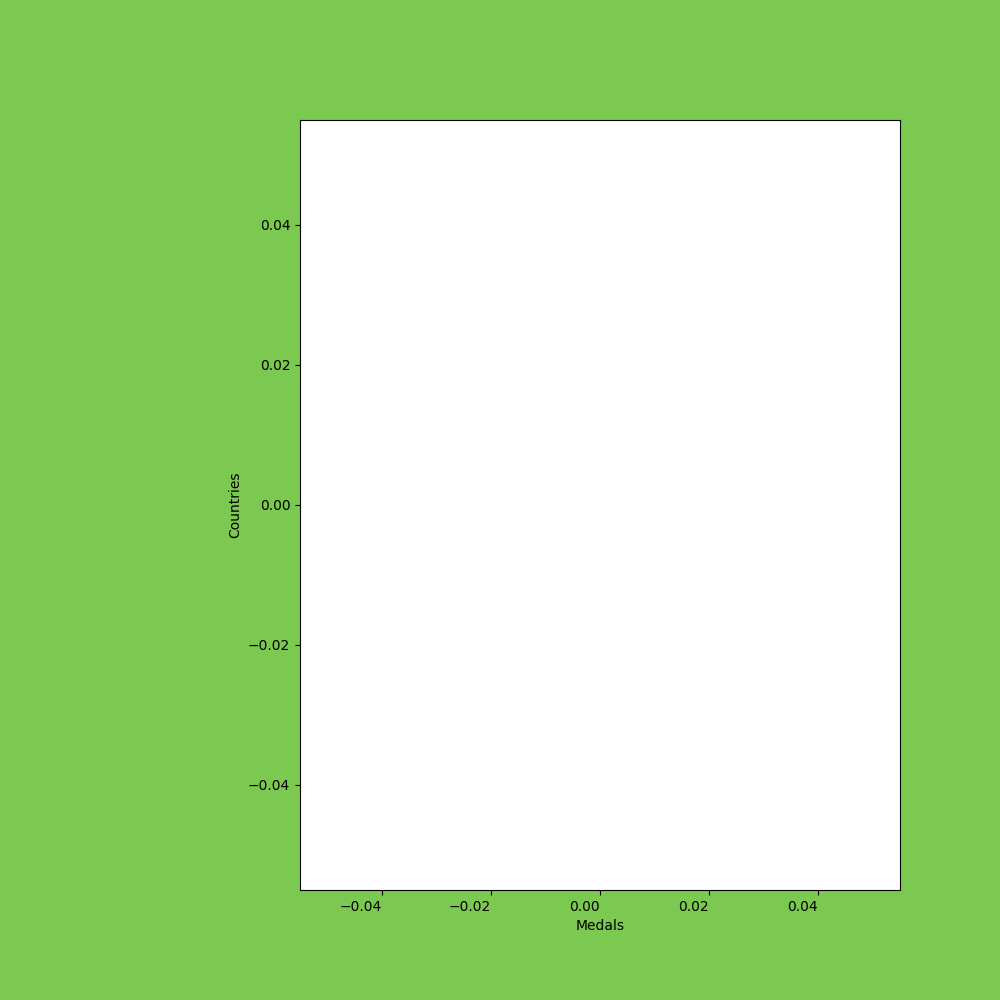
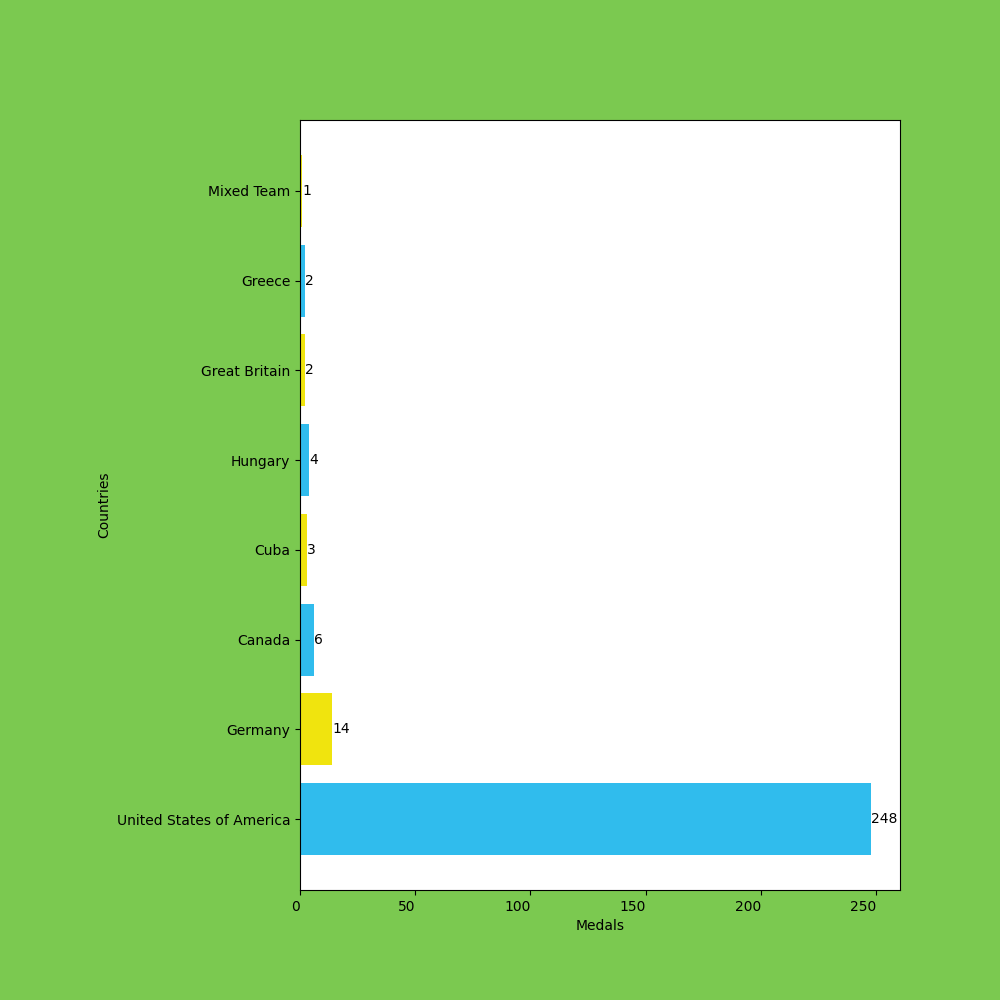
Added data for St. Louis. May have to change later.

diff --git a/templates/game.html b/templates/game.html
@@ -4,11 +4,10 @@
 <body>
 <h1>{{city.title().replace('-', ' ')}}</h1>
 {% if city== 'st-louis-1904': %}
-    <h2> While doing research on the games, I learned that there is no official medal count. I will
-    continue researching and make a determination on how to include the data. </h2>
-
-{% else: %}
-<img src="../static/images/{{city.title()}}.png">
+    <h2> While doing research on the Olympics, I learned that there is no official medal count
+        for the St. Louis games. Different sources report different medal counts.</h2>
 {% endif %}
+<img src="../static/images/{{city.title()}}.png">
+
 </body>
 </html>

diff --git a/paris.py b/paris.py
@@ -1,0 +1,56 @@
+from selenium import webdriver
+from selenium.webdriver.common.by import By
+from selenium.webdriver.common.keys import Keys
+import time
+import re
+import pandas as pd
+import numpy as np
+import os
+
+games=[]
+if os.path.isfile(f"results/paris-2024.csv")==True:
+    chrome_options = webdriver.ChromeOptions()
+    chrome_options.add_experimental_option("detach", True)
+    chrome_options.add_experimental_option("excludeSwitches", ["enable-automation"])
+    chrome_options.add_experimental_option('useAutomationExtension', False)
+    #driver = webdriver.Chrome(options=chrome_options)
+    # Create Chromeoptions instance
+    options = webdriver.ChromeOptions()
+
+    # Adding argument to disable the AutomationControlled flag
+    options.add_argument("--disable-blink-features=AutomationControlled")
+
+    # Exclude the collection of enable-automation switches
+    options.add_experimental_option("excludeSwitches", ["enable-automation"])
+
+    # Turn-off userAutomationExtension
+    options.add_experimental_option("useAutomationExtension", False)
+
+    # Setting the driver path and requesting a page
+    driver = webdriver.Chrome(options=options)
+
+    # Changing the property of the navigator value for webdriver to undefined
+    driver.execute_script("Object.defineProperty(navigator, 'webdriver', {get: () => undefined})")
+    # open website
+    columns=["country", "gold", "silver", "bronze", "total"]
+
+    olympic = []
+
+
+    driver.get("https://web.archive.org/web/20240818203845/https://olympics.com/en/paris-2024/medals")
+    games=driver.find_elements(By.CLASS_NAME, 'emotion-srm-fm15hs')
+    print(len(games))
+    for game in games:
+
+        print(game.text)
+        game.text.replace("-", '0')
+        result = re.split('\n', game.text)
+        olympic.append(result)
+
+    countries=np.array(olympic)
+
+    games=countries.tolist()
+    countries=pd.DataFrame(games, columns=columns)
+
+    countries.to_csv(f"results/paris-2024.csv")
+    driver.quit()

diff --git a/louis.py b/louis.py
@@ -1,0 +1,18 @@
+from selenium import webdriver
+from selenium.webdriver.common.by import By
+from selenium.webdriver.common.keys import Keys
+import time
+import re
+import pandas as pd
+import numpy as np
+import os
+import matplotlib.pyplot as plt
+
+
+columns= ['country', 'gold', 'silver', 'bronze', 'total']
+data = [['United States of America', 80, 85, 83, 248], ['Germany', 5,4,5,14], ['Canada', 4,1,1,6], ['Cuba', 3,0,0,3], ["Hungary", 2,1,1,4],['Great Britain', 1,1,0,2], ['Greece', 1,0,1,2], ['Mixed Team', 1,0,0,1]]
+countries=np.array(data)
+games=countries.tolist()
+countries=pd.DataFrame(games, columns=columns)
+countries.to_csv(f"results/st-louis-1904.csv")
+
